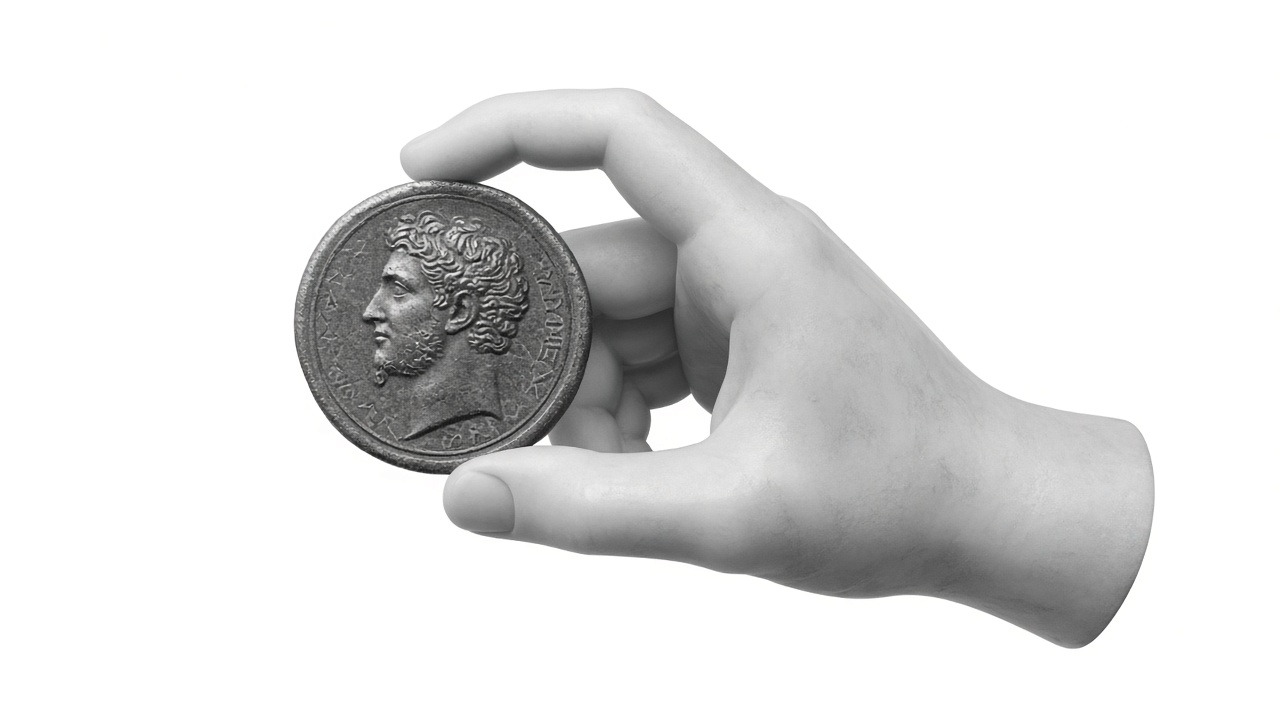
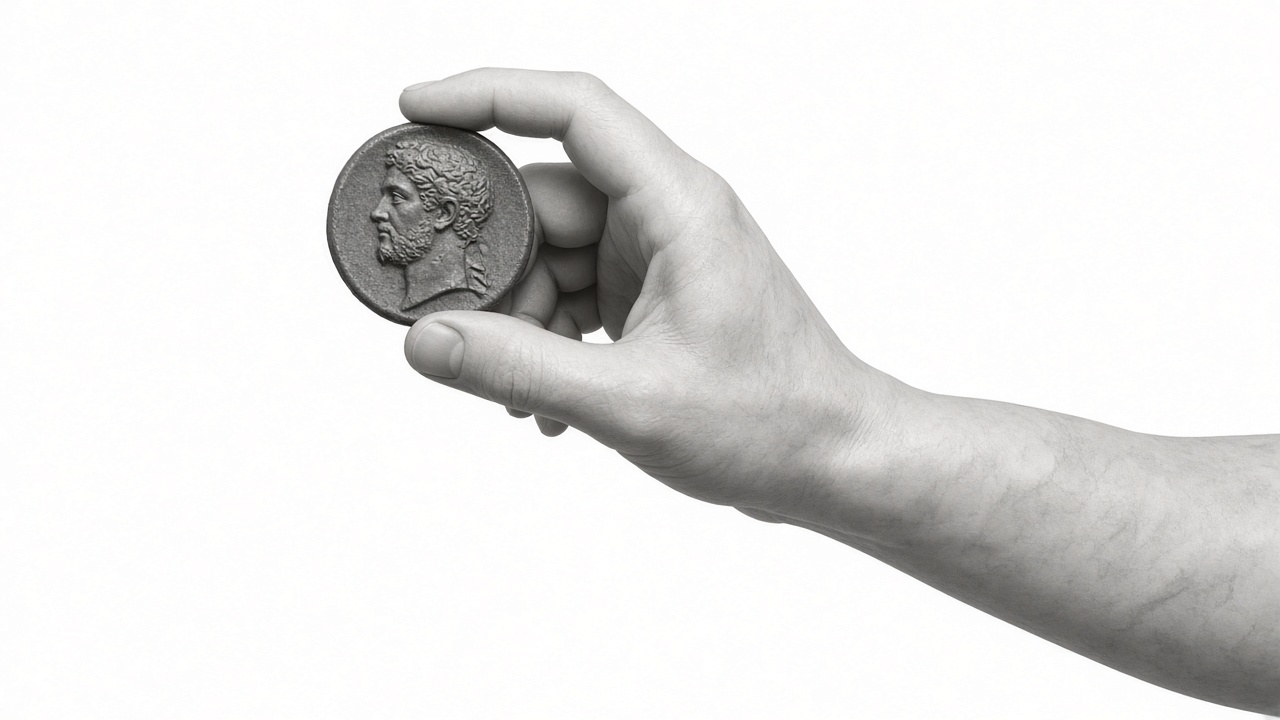
Why Synergy heroes: coin hand with forearm at matched scale; larger handshake with top fade

diff --git a/src/routes/why-synergy.security.tsx b/src/routes/why-synergy.security.tsx
@@ -255,16 +255,16 @@ function SecurityPage() {
         <HalftoneHandStill
           src={whySecurityAsset.url}
           contrast={1.7}
-          cropX={0.166}
-          cropW={0.834}
-          cropY={0.05}
-          cropH={0.85}
+          cropX={0.254}
+          cropW={0.746}
+          cropY={0.095}
+          cropH={0.76}
           pitch={6}
           className="pointer-events-none absolute select-none"
           style={{
             // Soften the box edges the subject bleeds through (left arm, lower arm).
-            maskImage: "linear-gradient(to right, transparent 0, #000 14%), linear-gradient(to top, transparent 0, #000 14%)",
-            WebkitMaskImage: "linear-gradient(to right, transparent 0, #000 14%), linear-gradient(to top, transparent 0, #000 14%)",
+            maskImage: "linear-gradient(to right, transparent 0, #000 14%), linear-gradient(to top, transparent 0, #000 14%), linear-gradient(to bottom, transparent 0, #000 12%)",
+            WebkitMaskImage: "linear-gradient(to right, transparent 0, #000 14%), linear-gradient(to top, transparent 0, #000 14%), linear-gradient(to bottom, transparent 0, #000 12%)",
             maskComposite: "intersect",
             WebkitMaskComposite: "source-in",
             top: fluid(115, 66),

diff --git a/src/routes/why-synergy.business-impact.tsx b/src/routes/why-synergy.business-impact.tsx
@@ -414,7 +414,7 @@ function BusinessImpactPage() {
         <HalftoneHandStill
           src={whyImpactAsset.url}
           contrast={1.25}
-          cropX={0.0}
+          cropX={0.019}
           cropW={0.981}
           cropY={0.0}
           cropH={1.0}
